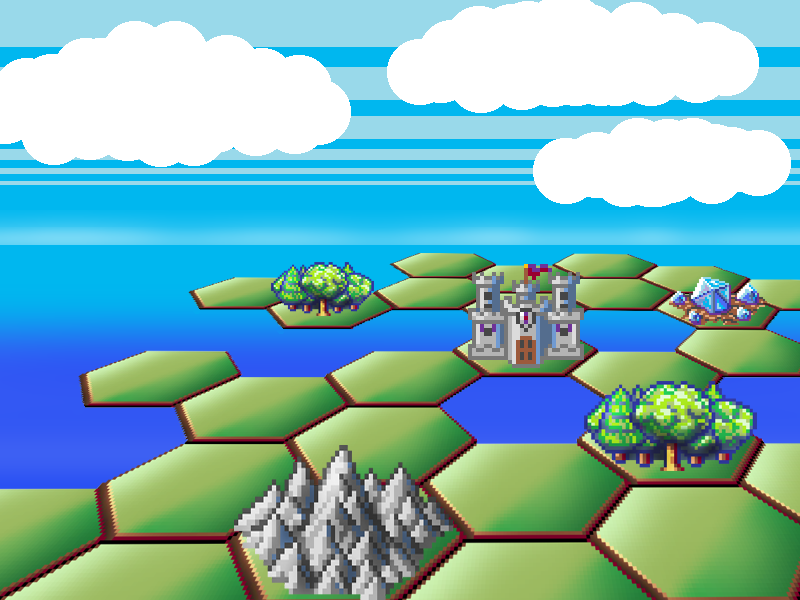
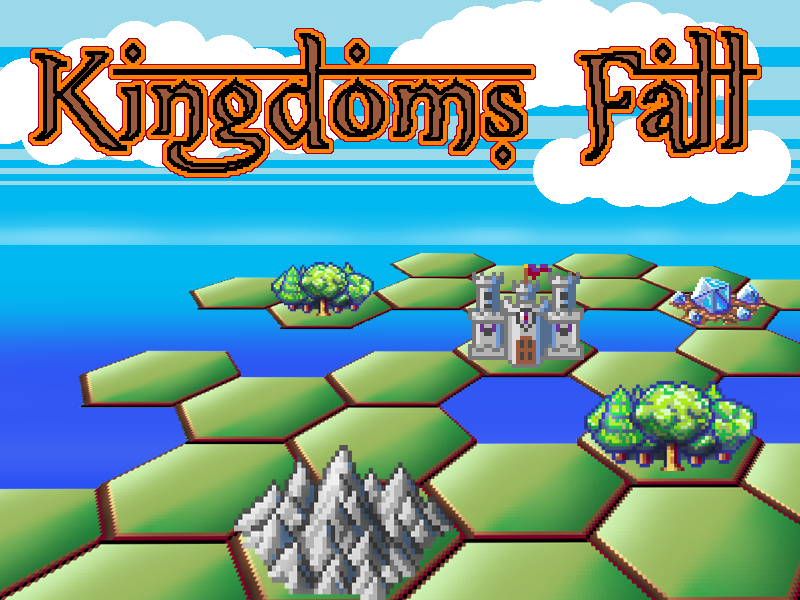
Matts new title screen

Changed region(s): [[0.0312, 0.03, 0.6875, 0.3], [0.7188, 0.03, 0.9688, 0.3]]

diff --git a/core/src/lando/systems/ld42/screens/TitleScreen.java b/core/src/lando/systems/ld42/screens/TitleScreen.java
@@ -19,23 +19,23 @@ import lando.systems.ld42.LudumDare42;
 import lando.systems.ld42.accessors.ColorAccessor;
 import lando.systems.ld42.utils.HelpModalWindow;
 import lando.systems.ld42.utils.Utils;
-
-class Letter {
-    String letter;
-    MutableFloat x;
-    float y;
-    float w;
-    float h;
-    float fy;
-    public Letter(String letter, float x, float y, float w, float h, float fy) {
-        this.letter = letter;
-        this.x = new MutableFloat(x);
-        this.y = y;
-        this.w = w;
-        this.h = h;
-        this.fy = fy;
-    }
-}
+//
+//class Letter {
+//    String letter;
+//    MutableFloat x;
+//    float y;
+//    float w;
+//    float h;
+//    float fy;
+//    public Letter(String letter, float x, float y, float w, float h, float fy) {
+//        this.letter = letter;
+//        this.x = new MutableFloat(x);
+//        this.y = y;
+//        this.w = w;
+//        this.h = h;
+//        this.fy = fy;
+//    }
+//}
 
 public class TitleScreen extends BaseScreen {
 
@@ -48,14 +48,14 @@ public class TitleScreen extends BaseScreen {
     private float speed = 200;
     private float time;
 
-    private Letter[] letters;
+//    private Letter[] letters;
 
     private boolean falling = true;
 
     enum State {intro, outro, tutorial, end, done}
 
     private State state = State.intro;
-    private float fallTiming = 0.2f;
+//    private float fallTiming = 0.2f;
 
     public boolean showTutorial;
     private HelpModalWindow helpModalWindow;
@@ -68,23 +68,23 @@ public class TitleScreen extends BaseScreen {
 
         Gdx.input.setInputProcessor(this);
 
-        glyphLayout.setText(titleFont, title, Color.WHITE, hudCamera.viewportWidth / 2, 1, true);
+//        glyphLayout.setText(titleFont, title, Color.WHITE, hudCamera.viewportWidth / 2, 1, true);
 
-        float finalY = hudCamera.viewportHeight - (titleBounds.height - glyphLayout.height) / 2;
-
-        letters = new Letter[title.length()];
-        int index = 0;
-        float y = hudCamera.viewportHeight + glyphLayout.height + 20;
-        for (int i = 0; i < glyphLayout.runs.size; i++) {
-            GlyphLayout.GlyphRun run = glyphLayout.runs.get(i);
-            float x = titleBounds.x + (titleBounds.width - run.width) / 2;
-            for (BitmapFont.Glyph g : run.glyphs) {
-                letters[index++] = new Letter(g.toString(), x, y, g.width, g.height, finalY);
-                x += g.width;
-            }
-            y -= 60;
-            finalY -= 60;
-        }
+//        float finalY = hudCamera.viewportHeight - (titleBounds.height - glyphLayout.height) / 2;
+//
+//        letters = new Letter[title.length()];
+//        int index = 0;
+//        float y = hudCamera.viewportHeight + glyphLayout.height + 20;
+//        for (int i = 0; i < glyphLayout.runs.size; i++) {
+//            GlyphLayout.GlyphRun run = glyphLayout.runs.get(i);
+//            float x = titleBounds.x + (titleBounds.width - run.width) / 2;
+//            for (BitmapFont.Glyph g : run.glyphs) {
+//                letters[index++] = new Letter(g.toString(), x, y, g.width, g.height, finalY);
+//                x += g.width;
+//            }
+//            y -= 60;
+//            finalY -= 60;
+//        }
 
 
         this.helpModalWindow = new HelpModalWindow(hudCamera);
@@ -101,83 +101,87 @@ public class TitleScreen extends BaseScreen {
             transition();
         }
 
-        if (falling) {
-            time += dt;
-            int glyphCountUpdate = (int) (time / fallTiming);
-            for (int i = 0; i < letters.length; i++) {
-                if (glyphCountUpdate-- < 0) break;
-                float dy = speed * dt;
-                if ((letters[i].y - dy) > letters[i].fy) {
-                    letters[i].y -= dy;
-                } else {
-                    letters[i].y = letters[i].fy;
-                }
-            }
-            if (letters.length > 0) {
-                Letter last = letters[letters.length - 1];
-                falling = (last.y != last.fy);
-                if (!falling) {
-                    transition();
-                }
-            }
-        } else if (state == State.outro) {
-            time += dt;
+        if (state == State.tutorial) {
+            transition();
+        }
+
+//        if (falling) {
+//            time += dt;
+//            int glyphCountUpdate = (int) (time / fallTiming);
+//            for (int i = 0; i < letters.length; i++) {
+//                if (glyphCountUpdate-- < 0) break;
+//                float dy = speed * dt;
+//                if ((letters[i].y - dy) > letters[i].fy) {
+//                    letters[i].y -= dy;
+//                } else {
+//                    letters[i].y = letters[i].fy;
+//                }
+//            }
+//            if (letters.length > 0) {
+//                Letter last = letters[letters.length - 1];
+//                falling = (last.y != last.fy);
+//                if (!falling) {
+//                    transition();
+//                }
+//            }
+//        } else if (state == State.outro) {
+//            time += dt;
 //            if (time >= 5) {
 //                transition();
 //            }
 //            triggerRandomJiggle();
-        } else if (state == State.tutorial) {
-            transition();
-        }
+//        } else if (state == State.tutorial) {
+//            transition();
+//        }
     }
-
-    private void triggerRandomJiggle() {
-        try {
-            if (MathUtils.random(100) < 100) {
-                int index = MathUtils.random(letters.length - 1);
-                Letter l = letters[index];
-                Tween.to(l.x, -1, 0.33f)
-                        .target(l.x.floatValue() + 5)
-                        .repeatYoyo(-1, 0f)
-                        .start(game.tween);
-
-            }
-        } catch (Exception e) {
-            // eat it
-        }
-    }
+//
+//    private void triggerRandomJiggle() {
+//        try {
+//            if (MathUtils.random(100) < 100) {
+//                int index = MathUtils.random(letters.length - 1);
+//                Letter l = letters[index];
+//                Tween.to(l.x, -1, 0.33f)
+//                        .target(l.x.floatValue() + 5)
+//                        .repeatYoyo(-1, 0f)
+//                        .start(game.tween);
+//
+//            }
+//        } catch (Exception e) {
+//            // eat it
+//        }
+//    }
 
     private void transition() {
         switch (state) {
             case intro:
-                time = 0;
-                if (falling) {
-                    for (Letter l: letters) {
-                        l.y = l.fy;
-                    }
-
-                    // no .reverse.. sigh
-                    for (int k = 0; k < letters.length/2; k++) {
-                        Letter temp = letters[k];
-                        letters[k] = letters[letters.length-(1+k)];
-                        letters[letters.length-(1+k)] = temp;
-                    }
-                }
-                falling = false;
-                state = State.outro;
-                break;
-            case outro:
-                time = 0;
-                for (Letter l: letters) {
-                    l.fy = -100;
-                    fallTiming = 0.05f;
-                    speed = 1200;
-                }
-                falling = true;
+//                time = 0;
+//                if (falling) {
+//                    for (Letter l: letters) {
+//                        l.y = l.fy;
+//                    }
+//
+//                    // no .reverse.. sigh
+//                    for (int k = 0; k < letters.length/2; k++) {
+//                        Letter temp = letters[k];
+//                        letters[k] = letters[letters.length-(1+k)];
+//                        letters[letters.length-(1+k)] = temp;
+//                    }
+//                }
+//                falling = false;
                 state = State.tutorial;
                 break;
+            case outro:
+//                time = 0;
+//                for (Letter l: letters) {
+//                    l.fy = -100;
+//                    fallTiming = 0.05f;
+//                    speed = 1200;
+//                }
+//                falling = true;
+//                state = State.tutorial;
+                break;
             case tutorial:
-                letters = new Letter[]{};
+//                letters = new Letter[]{};
                 helpModalWindow.show();
                 state = State.end;
                 break;
@@ -198,9 +202,9 @@ public class TitleScreen extends BaseScreen {
         {
             batch.draw(game.assets.titleTexture, 0f, 0f, hudCamera.viewportWidth, hudCamera.viewportHeight);
 
-            for (Letter l : letters) {
-                Assets.drawString(batch, l.letter, l.x.floatValue(), l.y, Color.WHITE, 1, titleFont);
-            }
+//            for (Letter l : letters) {
+//                Assets.drawString(batch, l.letter, l.x.floatValue(), l.y, Color.WHITE, 1, titleFont);
+//            }
 
             if (helpModalWindow.isActive) {
                 helpModalWindow.render(batch);
